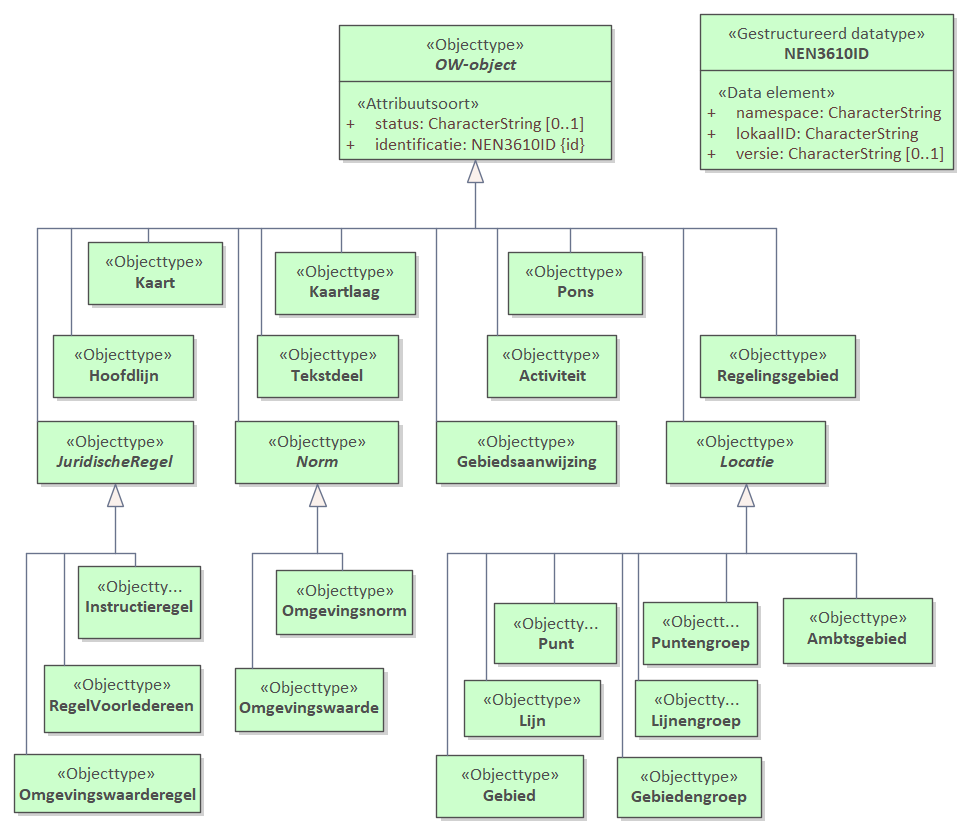
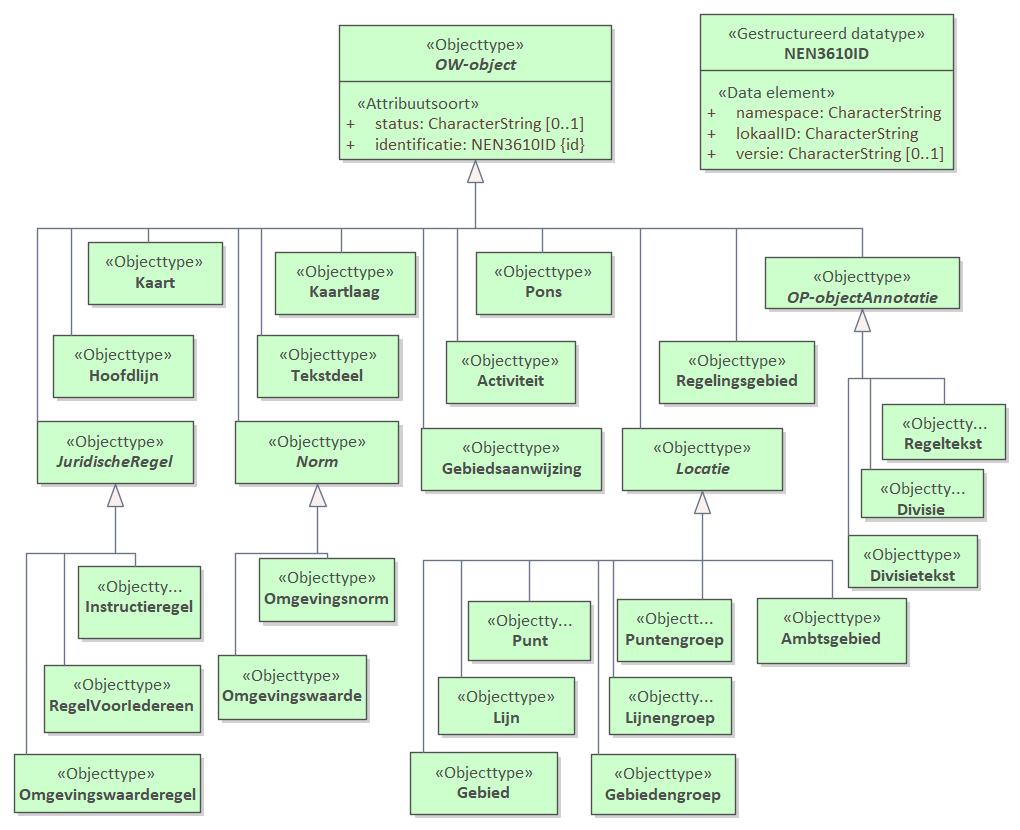
20200601_Oplevering

diff --git a/data/IMOW-cat.respec.html b/data/IMOW-cat.respec.html
@@ -1250,7 +1250,7 @@
          <h4>   OW-object - overzicht</h4>
          <div class="imageinfo overview">
             <figure><img src="data/Images/EAID_97D11E5C_222E_4885_AD87_2F92616ED77A.png" usemap="#imagemap-EAID_97D11E5C_222E_4885_AD87_2F92616ED77A" alt="Diagram: Dit diagram toont alle OW-objecten inhet IMOW."><figcaption>OW-object</figcaption>
-            </figure><map name="imagemap-EAID_97D11E5C_222E_4885_AD87_2F92616ED77A"><area shape="rect" alt="NEN3610ID" coords="700,14,954,170" href="#global_class_OWobject_NEN3610ID"><area shape="rect" alt="Ambtsgebied" coords="783,598,933,664" href="#global_class_Locatie_Ambtsgebied"><area shape="rect" alt="Gebiedengroep" coords="617,757,762,818" href="#global_class_Locatie_Gebiedengroep"><area shape="rect" alt="Gebied" coords="436,755,584,818" href="#global_class_Locatie_Gebied"><area shape="rect" alt="Puntengroep" coords="643,602,758,665" href="#global_class_Locatie_Puntengroep"><area shape="rect" alt="Punt" coords="494,603,617,664" href="#global_class_Locatie_Punt"><area shape="rect" alt="Lijnengroep" coords="635,680,758,737" href="#global_class_Locatie_Lijnengroep"><area shape="rect" alt="Lijn" coords="464,680,601,737" href="#global_class_Locatie_Lijn"><area shape="rect" alt="Instructieregel" coords="78,566,201,639" href="#global_class_Artikelstructuur_Instructieregel"><area shape="rect" alt="Omgevingswaarde" coords="235,668,384,732" href="#global_class_Artikelstructuur_Omgevingswaarde"><area shape="rect" alt="Omgevingsnorm" coords="276,570,413,635" href="#global_class_Artikelstructuur_Omgevingsnorm"><area shape="rect" alt="Omgevingswaarderegel" coords="14,754,201,813" href="#global_class_Artikelstructuur_Omgevingswaarderegel"><area shape="rect" alt="RegelVoorIedereen" coords="44,665,201,733" href="#global_class_Artikelstructuur_RegelVoorIedereen"><area shape="rect" alt="Regelingsgebied" coords="700,335,856,398" href="#global_class_Artikelstructuur_Regelingsgebied"><area shape="rect" alt="Kaartlaag" coords="275,252,416,315" href="#global_class_Kaart_Kaartlaag"><area shape="rect" alt="Pons" coords="508,252,643,315" href="#global_class_Artikelstructuur_Pons"><area shape="rect" alt="Gebiedsaanwijzing" coords="436,421,617,484" href="#global_class_Artikelstructuur_Gebiedsaanwijzing"><area shape="rect" alt="Norm" coords="235,421,399,484" href="#global_class_Artikelstructuur_Norm"><area shape="rect" alt="Locatie" coords="666,421,826,484" href="#global_class_Locatie_Locatie"><area shape="rect" alt="Tekstdeel" coords="257,335,399,398" href="#global_class_Vrijetekststructuur_Tekstdeel"><area shape="rect" alt="Hoofdlijn" coords="53,335,194,398" href="#global_class_Vrijetekststructuur_Hoofdlijn"><area shape="rect" alt="Kaart" coords="88,242,223,305" href="#global_class_Kaart_Kaart"><area shape="rect" alt="Activiteit" coords="487,335,617,398" href="#global_class_Artikelstructuur_Activiteit"><area shape="rect" alt="JuridischeRegel" coords="37,421,194,484" href="#global_class_Artikelstructuur_JuridischeRegel"><area shape="rect" alt="OW-object" coords="339,25,612,160" href="#global_class_OWobject_OWobject"></map><p>
+            </figure><map name="imagemap-EAID_97D11E5C_222E_4885_AD87_2F92616ED77A"><area shape="rect" alt="Divisietekst" coords="848,535,978,588" href="#global_class_Vrijetekststructuur_Divisietekst"><area shape="rect" alt="Divisie" coords="861,469,984,518" href="#global_class_Vrijetekststructuur_Divisie"><area shape="rect" alt="Regeltekst" coords="882,404,1006,460" href="#global_class_Artikelstructuur_Regeltekst"><area shape="rect" alt="OP-objectAnnotatie" coords="765,257,960,309" href="#global_class_OWobject_OPobjectAnnotatie"><area shape="rect" alt="NEN3610ID" coords="700,14,954,170" href="#global_class_OWobject_NEN3610ID"><area shape="rect" alt="Ambtsgebied" coords="757,598,907,664" href="#global_class_Locatie_Ambtsgebied"><area shape="rect" alt="Gebiedengroep" coords="591,754,736,815" href="#global_class_Locatie_Gebiedengroep"><area shape="rect" alt="Gebied" coords="410,752,558,815" href="#global_class_Locatie_Gebied"><area shape="rect" alt="Puntengroep" coords="617,599,732,662" href="#global_class_Locatie_Puntengroep"><area shape="rect" alt="Punt" coords="468,601,591,661" href="#global_class_Locatie_Punt"><area shape="rect" alt="Lijnengroep" coords="609,677,732,735" href="#global_class_Locatie_Lijnengroep"><area shape="rect" alt="Lijn" coords="438,677,575,735" href="#global_class_Locatie_Lijn"><area shape="rect" alt="Instructieregel" coords="78,566,201,639" href="#global_class_Artikelstructuur_Instructieregel"><area shape="rect" alt="Omgevingswaarde" coords="218,655,367,720" href="#global_class_Artikelstructuur_Omgevingswaarde"><area shape="rect" alt="Omgevingsnorm" coords="259,558,395,622" href="#global_class_Artikelstructuur_Omgevingsnorm"><area shape="rect" alt="Omgevingswaarderegel" coords="14,754,201,813" href="#global_class_Artikelstructuur_Omgevingswaarderegel"><area shape="rect" alt="RegelVoorIedereen" coords="44,665,201,733" href="#global_class_Artikelstructuur_RegelVoorIedereen"><area shape="rect" alt="Regelingsgebied" coords="659,341,815,404" href="#global_class_Artikelstructuur_Regelingsgebied"><area shape="rect" alt="Kaartlaag" coords="275,252,416,315" href="#global_class_Kaart_Kaartlaag"><area shape="rect" alt="Pons" coords="476,252,612,315" href="#global_class_Artikelstructuur_Pons"><area shape="rect" alt="Gebiedsaanwijzing" coords="421,428,602,491" href="#global_class_Artikelstructuur_Gebiedsaanwijzing"><area shape="rect" alt="Norm" coords="235,421,399,484" href="#global_class_Artikelstructuur_Norm"><area shape="rect" alt="Locatie" coords="622,428,783,491" href="#global_class_Locatie_Locatie"><area shape="rect" alt="Tekstdeel" coords="257,335,399,398" href="#global_class_Vrijetekststructuur_Tekstdeel"><area shape="rect" alt="Hoofdlijn" coords="53,335,194,398" href="#global_class_Vrijetekststructuur_Hoofdlijn"><area shape="rect" alt="Kaart" coords="88,242,223,305" href="#global_class_Kaart_Kaart"><area shape="rect" alt="Activiteit" coords="446,341,576,404" href="#global_class_Artikelstructuur_Activiteit"><area shape="rect" alt="JuridischeRegel" coords="37,421,194,484" href="#global_class_Artikelstructuur_JuridischeRegel"><area shape="rect" alt="OW-object" coords="339,25,612,160" href="#global_class_OWobject_OWobject"></map><p>
                
                <p>Dit diagram toont alle OW-objecten inhet IMOW.</p>
                </p>
@@ -8297,15 +8297,6 @@
                         
                         <p>De in samenhang getoonde door het bevoegd gezag geselecteerde  collectie van domeinspecifieke
                            OW-objecten.</p>
-                        
-                        </td>
-                  </tr>
-                  <tr>
-                     <th>Toelichting</th>
-                     <td>
-                        
-                        
-                        <p>TODO</p>
                         
                         </td>
                   </tr>
